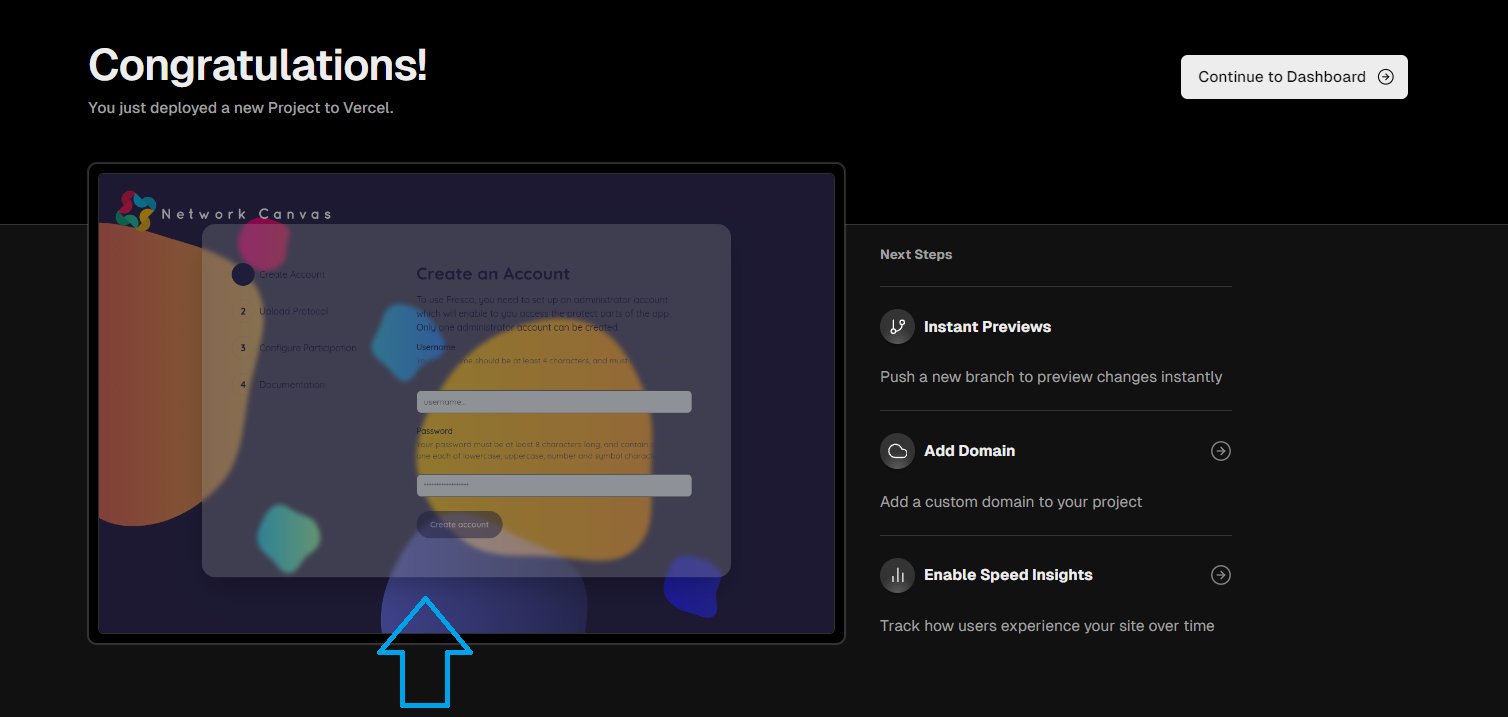
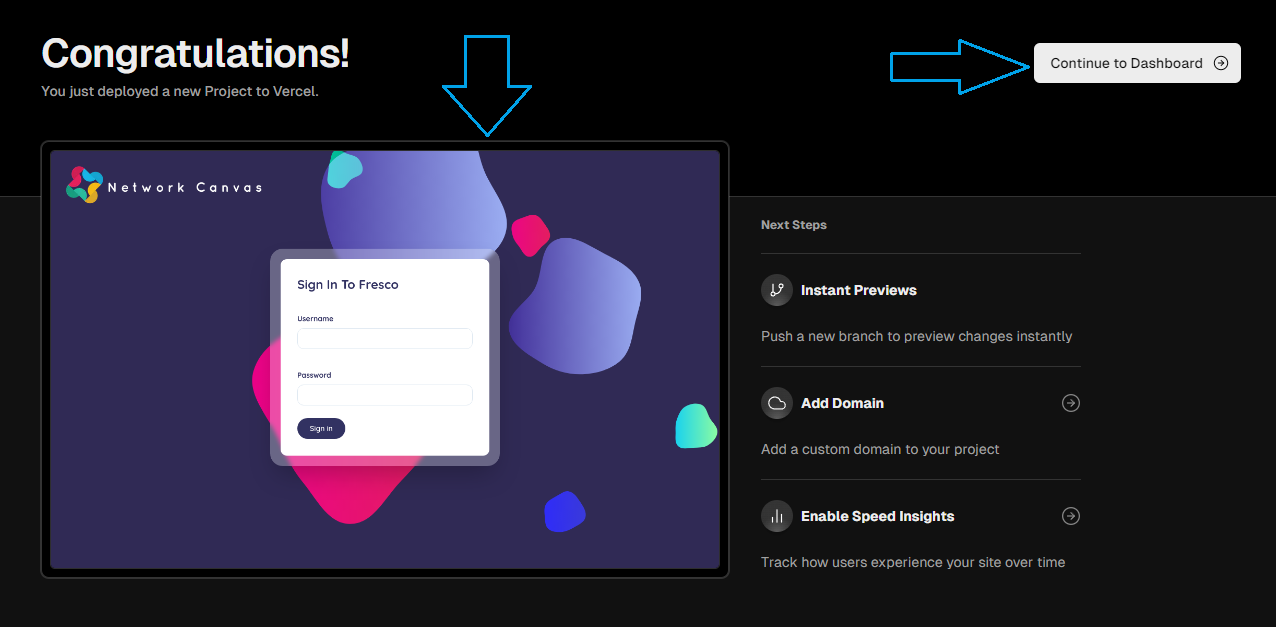
update README to add instroction for visiting deployed app

diff --git a/README.md b/README.md
@@ -140,9 +140,13 @@ _Prerequisite:_ You need to have a Vercel account, go to <a href="https://vercel
 
    **Note: If you encounter any issues during deployment, check out the [Troubleshooting](#troubleshooting) section or our <a href="https://community.networkcanvas.com/">User Community</a> for a possible solution.**
 
-5. Visit your deployed app.
+5. Visit your deployed Fresco app by clicking on the preview or go to your dashboard by clicking **"Continue to Dashboard"** button...
 
    ![Deploy on Vercel3](public/images/readme-screenshots/vercel3.png)
+
+   ...and click on one of the domains names or the **"Visit"** button on the right corner.
+
+   ![Deploy on Vercel3](public/images/readme-screenshots/vercel4.png)
 
 # Create User Account on your Fresco app
 
